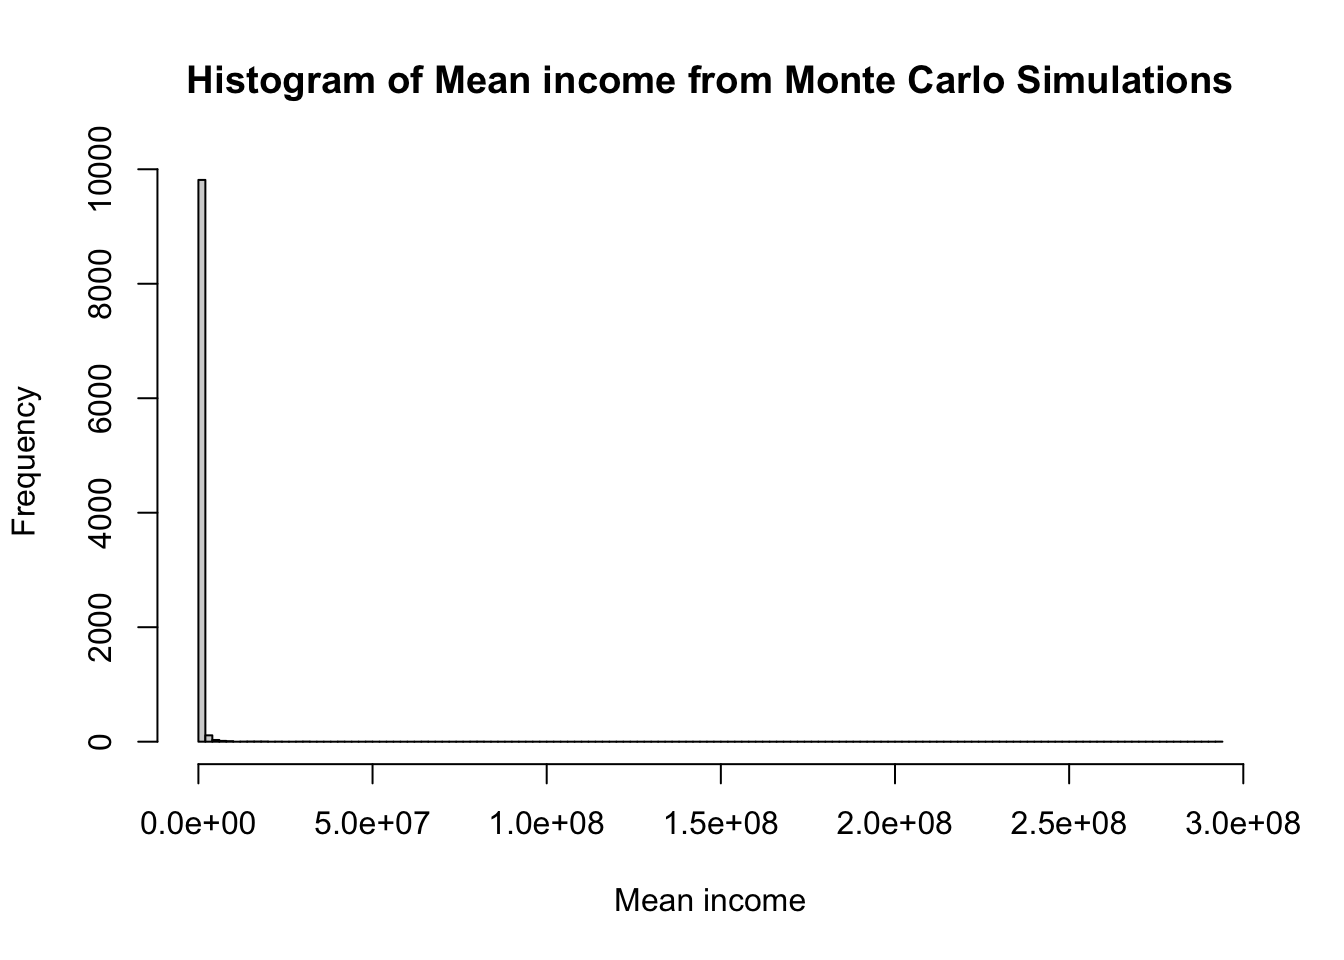
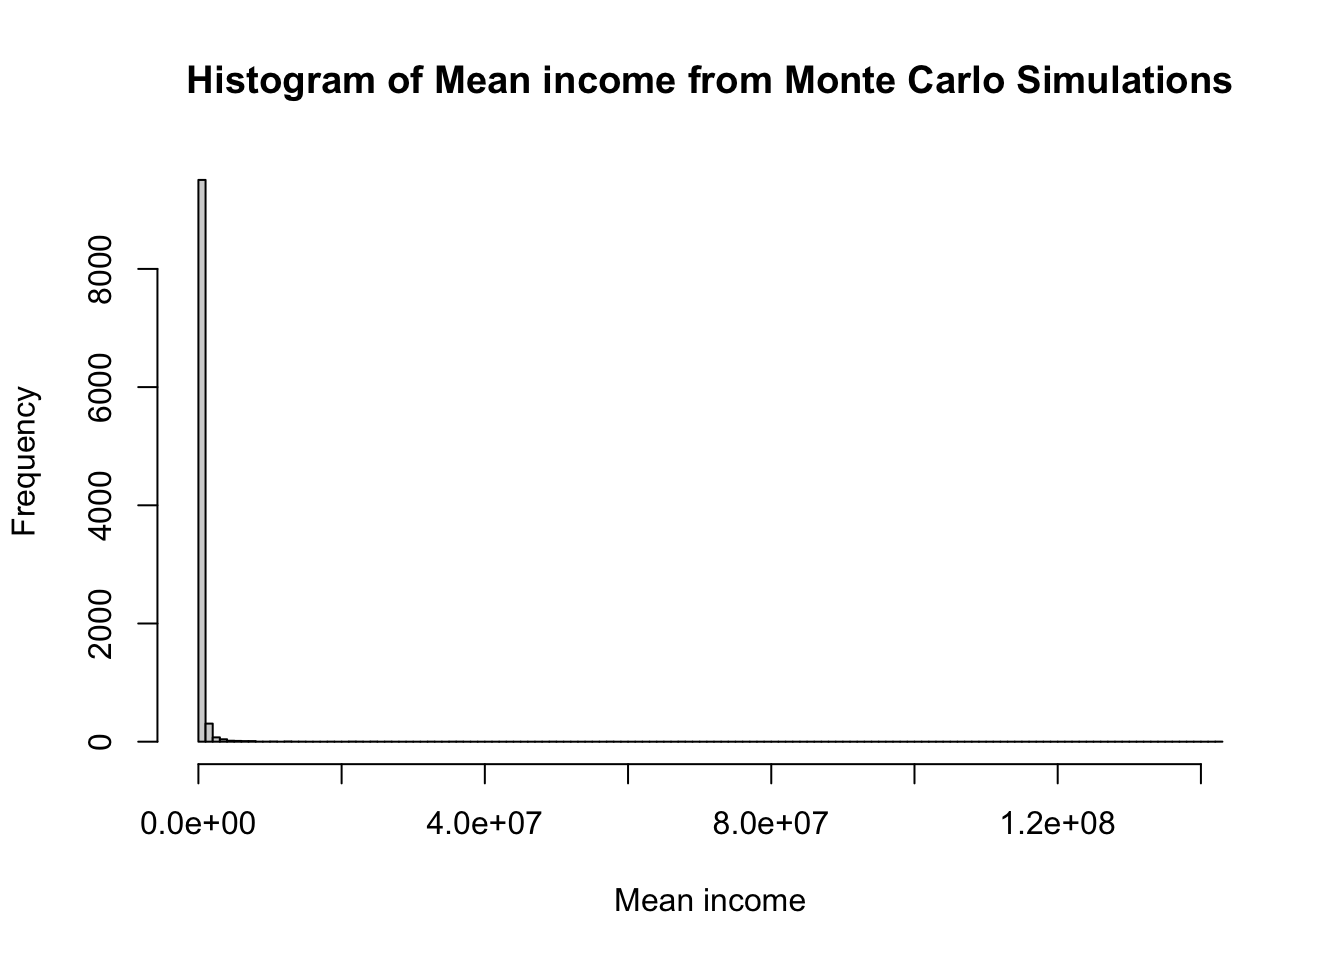
812242 link hiit

diff --git a/docs/posts/montecarlo.html b/docs/posts/montecarlo.html
@@ -1983,7 +1983,7 @@ Income distribution is not normal
 </details>
 <div class="cell-output cell-output-stdout">
 <pre><code>     Min.   1st Qu.    Median      Mean   3rd Qu.      Max. 
-   203373    296982    343722    576599    434998 293342132 </code></pre>
+   211030    296021    343056    532323    435883 142890413 </code></pre>
 </div>
 <details open="" class="code-fold">
 <summary>Code</summary>
@@ -1991,7 +1991,7 @@ Income distribution is not normal
 </details>
 <div class="cell-output cell-output-stdout">
 <pre><code>   Min. 1st Qu.  Median    Mean 3rd Qu.    Max. 
-  61775   64076   64503   64513   64942   67241 </code></pre>
+  62109   64080   64501   64507   64941   66960 </code></pre>
 </div>
 <details open="" class="code-fold">
 <summary>Code</summary>
@@ -1999,7 +1999,7 @@ Income distribution is not normal
 </details>
 <div class="cell-output cell-output-stdout">
 <pre><code>     Min.   1st Qu.    Median      Mean   3rd Qu.      Max. 
-9.032e+05 3.347e+06 5.620e+06 2.829e+07 1.169e+07 2.931e+10 </code></pre>
+1.010e+06 3.357e+06 5.588e+06 2.380e+07 1.178e+07 1.422e+10 </code></pre>
 </div>
 </div>
 </section>

diff --git a/docs/posts/Fragility.html b/docs/posts/Fragility.html
@@ -1981,7 +1981,7 @@ C[mTORC1] &lt;--&gt; B
 <li><p>One may not mix aerobic with resistance exercises. There should be at least 3-24 hrs. gap between them, depending on where your focus is on.</p></li>
 <li><p>Lot of animal protein and strengthening exercises will increase muscle mass. But the same has got negative affect on life span.</p></li>
 <li><p>Hence, limit animal protein and strengthening exercises to 2 days per week. Rest of the days, take less protein and do aerobic exercises<a href="#fn3" class="footnote-ref" id="fnref3" role="doc-noteref"><sup>3</sup></a>.</p></li>
-<li><p>Explore HIIT/SIT<a href="#fn4" class="footnote-ref" id="fnref4" role="doc-noteref"><sup>4</sup></a></p></li>
+<li><p><a href="https://www.knotes.co.in/posts/hiit">Explore HIIT/SIT</a><a href="#fn4" class="footnote-ref" id="fnref4" role="doc-noteref"><sup>4</sup></a></p></li>
 </ul>
 
 

diff --git a/docs/posts.html b/docs/posts.html
@@ -1910,7 +1910,7 @@ Categories
 </tr>
 </thead>
 <tbody class="list">
-<tr data-index="0" data-categories="bWVkaWNpbmU=" data-listing-date-sort="1733509800000" data-listing-file-modified-sort="1733654108299" data-listing-date-modified-sort="NaN" data-listing-reading-time-sort="8" data-listing-word-count-sort="1444" data-listing-title-sort="Problem of life span and strength" data-listing-filename-sort="Fragility.qmd">
+<tr data-index="0" data-categories="bWVkaWNpbmU=" data-listing-date-sort="1733509800000" data-listing-file-modified-sort="1733654435514" data-listing-date-modified-sort="NaN" data-listing-reading-time-sort="8" data-listing-word-count-sort="1444" data-listing-title-sort="Problem of life span and strength" data-listing-filename-sort="Fragility.qmd">
 <td>
 <span class="listing-date">Dec 7, 2024</span>
 </td>

diff --git a/docs/Biomedical/Research Methodology/wrangling.html b/docs/Biomedical/Research Methodology/wrangling.html
@@ -3278,10 +3278,10 @@ Record
 <pre><code>     age   sex  class
    &lt;int&gt; &lt;int&gt; &lt;fctr&gt;
 1:     1     0  child
-2:     2     0  child
+2:     2     1  child
 3:     3     0  child
-4:     4     0  child
-5:     5     1  child
+4:     4     1  child
+5:     5     0  child
 6:     6     0  child</code></pre>
 </div>
 </div>
@@ -3301,10 +3301,10 @@ Record
      age      0      1
    &lt;int&gt; &lt;fctr&gt; &lt;fctr&gt;
 1:     1  child   &lt;NA&gt;
-2:     2  child   &lt;NA&gt;
+2:     2   &lt;NA&gt;  child
 3:     3  child   &lt;NA&gt;
-4:     4  child   &lt;NA&gt;
-5:     5   &lt;NA&gt;  child
+4:     4   &lt;NA&gt;  child
+5:     5  child   &lt;NA&gt;
 6:     6  child   &lt;NA&gt;</code></pre>
 </div>
 </div>
